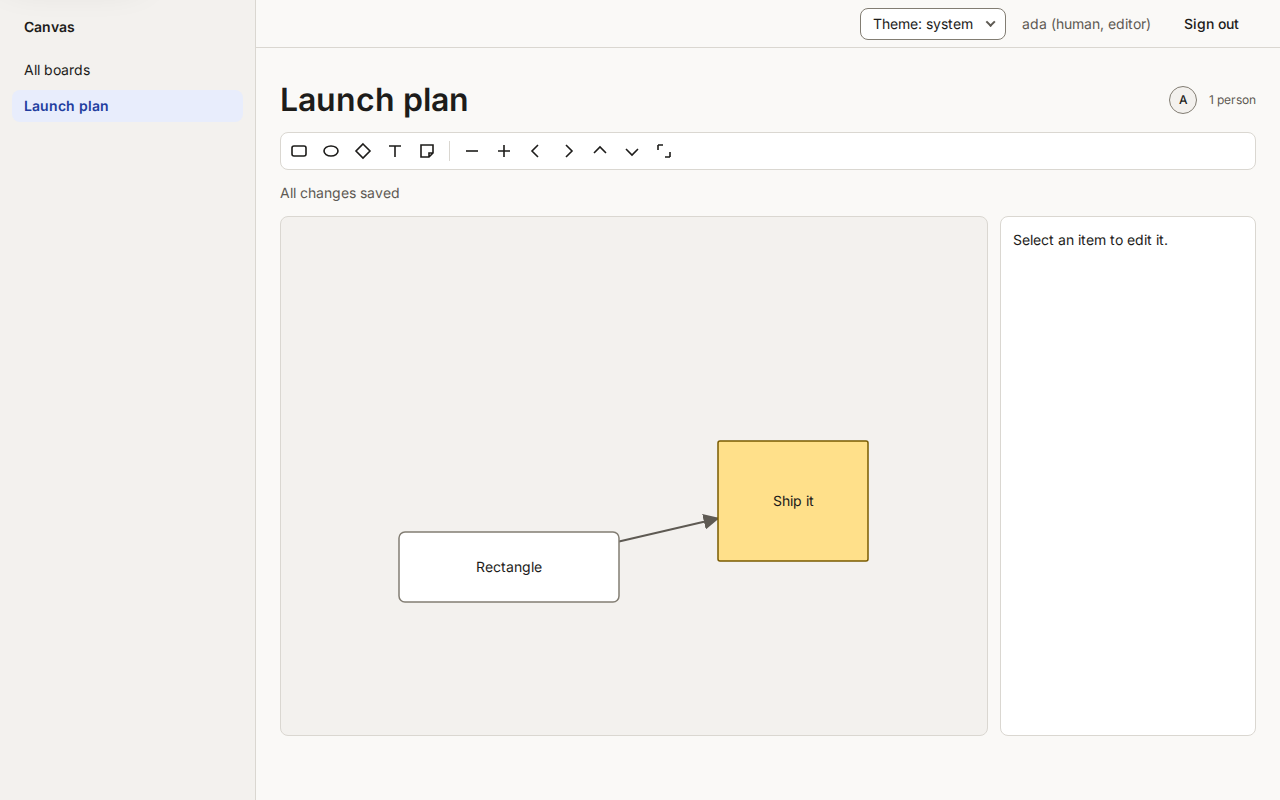
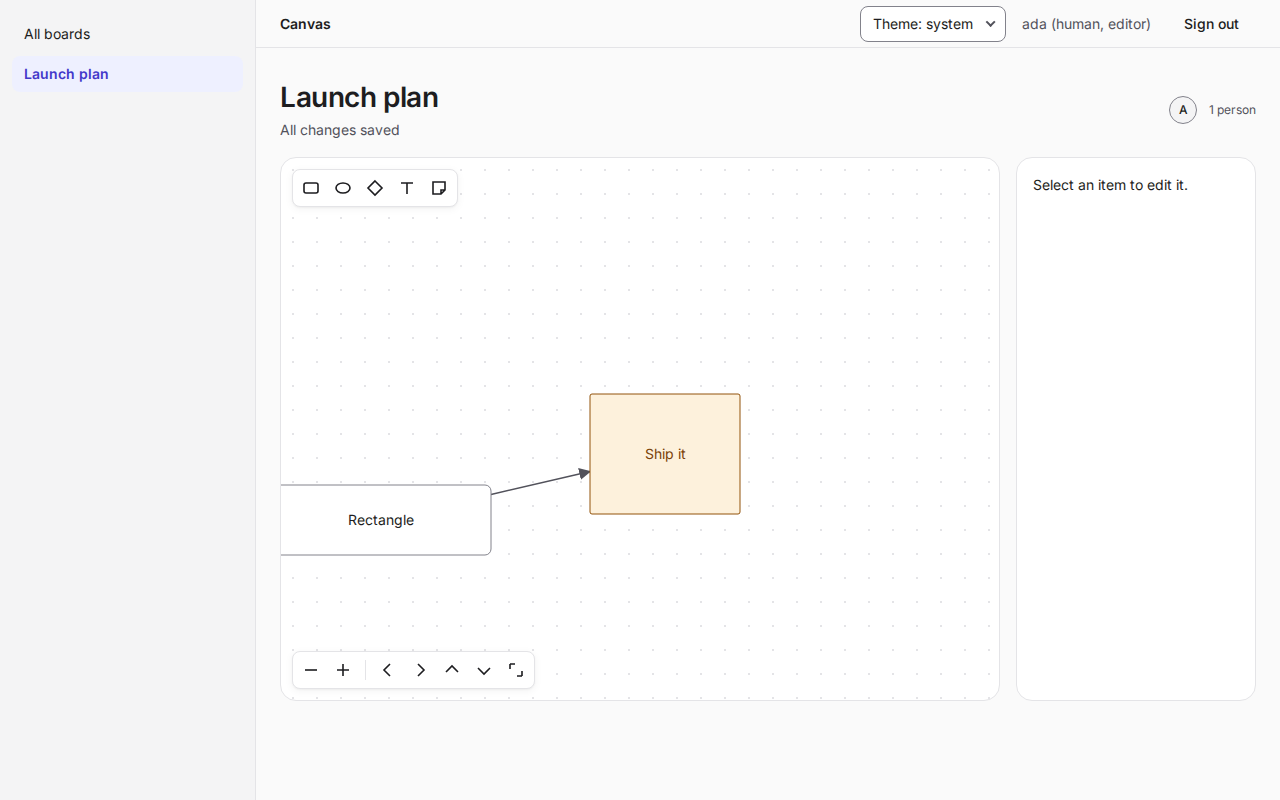
[CANVAS-100] Give the board a calm look (#101)
* [CANVAS-100] Give the board a calm look

Use agentic-design 0.5. The shape palette and the zoom controls float on
the canvas, before it in tab order. The canvas has a dot grid and softer
lines. The empty state is centered.

* [CANVAS-100] Fix a stale test comment

diff --git a/ui/ui.css b/ui/ui.css
@@ -5,32 +5,40 @@
   .note { color: var(--agd-color-text-muted); }
   .sr-only { position: absolute; width: 1px; height: 1px; overflow: hidden; clip: rect(0 0 0 0); white-space: nowrap; }
 
-  .board { display: grid; gap: var(--agd-space-3); }
-  .stage { position: relative; display: grid; grid-template-columns: minmax(0, 1fr) 16rem; gap: var(--agd-space-3); height: 65vh; min-height: 22rem; }
+  .board { display: grid; gap: var(--agd-space-4); }
+  .heading { display: grid; gap: var(--agd-space-1); }
+  .heading h1, .heading .note { margin: 0; }
+  .heading .note { font-size: var(--agd-font-size-sm); min-height: 1.25em; }
+  .stage { display: grid; grid-template-columns: minmax(0, 1fr) 15rem; gap: var(--agd-space-4); height: 68vh; min-height: 24rem; }
+  /* The palette and the zoom controls float on the canvas, so the page keeps one calm surface. They come before the canvas, so Tab reaches them first. */
+  .surface { position: relative; min-height: 18rem; }
+  .palette, .zoom { position: absolute; z-index: 1; left: var(--agd-space-3); max-width: calc(100% - 2 * var(--agd-space-3)); }
+  .palette { top: var(--agd-space-3); }
+  .zoom { bottom: var(--agd-space-3); }
+  .palette .agd-toolbar, .zoom .agd-toolbar { flex-wrap: wrap; box-shadow: var(--agd-shadow-raised); }
+  .canvas { height: 100%; box-sizing: border-box; background-color: var(--agd-color-surface); background-image: radial-gradient(var(--agd-color-border) 1px, transparent 1px); background-size: 24px 24px; border: 1px solid var(--agd-color-border); border-radius: var(--agd-radius-lg); overflow: hidden; touch-action: none; min-height: 18rem; }
   @media (max-width: 48rem) { .stage { grid-template-columns: 1fr; height: auto; } .canvas { height: 55vh; } }
-  .canvas { background: var(--agd-color-surface-sunken); border: 1px solid var(--agd-color-border); border-radius: var(--agd-radius-md); overflow: hidden; touch-action: none; min-height: 18rem; }
   .canvas:focus-visible { outline: 3px solid var(--agd-color-focus); outline-offset: 2px; }
   .canvas svg { display: block; cursor: grab; font-family: var(--agd-font-family-sans); font-size: 14px; }
   .item { outline: none; cursor: pointer; }
-  .shape { fill: var(--agd-color-surface-raised); stroke: var(--agd-color-border-strong); stroke-width: 1.5; }
+  .shape { fill: var(--agd-color-surface-raised); stroke: var(--agd-color-border-strong); stroke-width: 1; }
   .shape.text { fill: transparent; stroke: none; }
   .shape.frame, .shape.image { fill: none; stroke-dasharray: 6 4; pointer-events: visiblePainted; }
   .shape.sticky { fill: var(--agd-color-warning-subtle); stroke: var(--agd-color-warning); }
   .label { fill: var(--agd-color-text); pointer-events: none; }
   .sticky-label { fill: var(--agd-color-warning-text); }
-  .edge { stroke: var(--agd-color-text-muted); stroke-width: 2; fill: none; pointer-events: none; }
+  .edge { stroke: var(--agd-color-text-muted); stroke-width: 1.5; fill: none; pointer-events: none; }
   .hit { stroke: transparent; stroke-width: 14; }
   .arrowhead { fill: var(--agd-color-text-muted); }
-  .edge-text { fill: var(--agd-color-text); paint-order: stroke; stroke: var(--agd-color-surface-sunken); stroke-width: 4px; pointer-events: none; }
+  .edge-text { fill: var(--agd-color-text); paint-order: stroke; stroke: var(--agd-color-surface); stroke-width: 4px; pointer-events: none; }
   .ring, .ring-line { fill: none; stroke: none; stroke-width: 3; pointer-events: none; }
   .item.selected .ring, .item.selected .ring-line, .item:focus-visible .ring, .item:focus-visible .ring-line { stroke: var(--agd-color-focus); }
   .item:focus-visible .ring, .item:focus-visible .ring-line { stroke-width: 4; }
   .handle { fill: var(--agd-color-focus); stroke: var(--agd-color-bg); stroke-width: 2; cursor: nwse-resize; }
   .agent-badge rect { fill: var(--agd-color-agent-subtle); stroke: var(--agd-color-agent); }
   .agent-badge text { fill: var(--agd-color-agent-text); font-size: 11px; font-weight: 600; pointer-events: none; }
-  .empty-overlay { position: absolute; inset: 0 16rem 0 0; display: grid; place-items: center; pointer-events: none; }
-  @media (max-width: 48rem) { .empty-overlay { inset: 0; bottom: auto; height: 55vh; } }
-  .inspector { border: 1px solid var(--agd-color-border); border-radius: var(--agd-radius-md); padding: var(--agd-space-3); background: var(--agd-color-surface); display: grid; gap: var(--agd-space-3); align-content: start; overflow: auto; }
+  .empty-overlay { position: absolute; inset: 0; display: grid; place-items: center; pointer-events: none; }
+  .inspector { border: 1px solid var(--agd-color-border); border-radius: var(--agd-radius-lg); padding: var(--agd-space-4); background: var(--agd-color-surface); display: grid; gap: var(--agd-space-3); align-content: start; overflow: auto; }
   .inspector h2 { margin: 0; font-size: var(--agd-font-size-lg); }
   .inspector form { display: grid; gap: var(--agd-space-3); }
   .inspector .by { margin: 0; color: var(--agd-color-text-muted); font-size: var(--agd-font-size-sm); }

diff --git a/ui/BoardView.tsx b/ui/BoardView.tsx
@@ -235,31 +235,41 @@ export function BoardView({ id, client: remote, host, room: roomOptions, me, bac
   return (
     <section className="board" aria-labelledby="board-h">
       <div className="row">
-        <h1 id="board-h">{d.title || d.id}</h1>
+        <div className="heading">
+          <h1 id="board-h">{d.title || d.id}</h1>
+          <p className="note" role="status">{editable ? status : ""}</p>
+        </div>
         <PresenceStack entries={[{ id: "me", name: me.actor, kind: me.kind === "human" ? "person" : "agent" }, ...peers]} label={live ? "In this board" : "In this board (not live)"} />
       </div>
-      <Toolbar label="Board tools">
-        {TOOLS.map((t) => (
-          <ToolbarButton key={t.type} label={t.text} icon={t.icon} disabled={!editable} onClick={() => add(t.type)} />
-        ))}
-        <ToolbarSeparator />
-        <ToolbarButton label="Zoom out" icon={icon(<path d="M4 10h12" />)} onClick={() => zoom(1 / 1.25)} />
-        <ToolbarButton label="Zoom in" icon={icon(<path d="M4 10h12M10 4v12" />)} onClick={() => zoom(1.25)} />
-        <ToolbarButton label="Pan left" icon={icon(<path d="M12 4l-6 6 6 6" />)} onClick={() => setView((v) => ({ ...v, x: v.x + PAN_STEP }))} />
-        <ToolbarButton label="Pan right" icon={icon(<path d="M8 4l6 6-6 6" />)} onClick={() => setView((v) => ({ ...v, x: v.x - PAN_STEP }))} />
-        <ToolbarButton label="Pan up" icon={icon(<path d="M4 12l6-6 6 6" />)} onClick={() => setView((v) => ({ ...v, y: v.y + PAN_STEP }))} />
-        <ToolbarButton label="Pan down" icon={icon(<path d="M4 8l6 6 6-6" />)} onClick={() => setView((v) => ({ ...v, y: v.y - PAN_STEP }))} />
-        <ToolbarButton label="Reset view" icon={icon(<path d="M4 4h5M4 4v5M16 16h-5M16 16v-5" />)} onClick={() => setView(HOME)} />
-      </Toolbar>
-      <p className="note" role="status">{editable ? status : ""}</p>
       {!editable && <p className="note">{host ? "This board is read only." : "This token can read the board but not change it."}</p>}
-      <div className="stage" ref={canvasBox}>
-        <Canvas data={d} selected={selected} editable={editable} view={view} onView={setView} onSelect={setSelected} onMove={move} onResize={resize} onDelete={remove} />
-        {empty && (
-          <div className="empty-overlay">
-            <EmptyState title="This board is empty" description={editable ? "Add a shape or a note with the tools above." : "Nothing has been drawn yet."} />
+      <div className="stage">
+        <div className="surface" ref={canvasBox}>
+          <div className="palette">
+            <Toolbar label="Shape palette">
+              {TOOLS.map((t) => (
+                <ToolbarButton key={t.type} label={t.text} icon={t.icon} disabled={!editable} onClick={() => add(t.type)} />
+              ))}
+            </Toolbar>
           </div>
-        )}
+          <div className="zoom">
+            <Toolbar label="Zoom and pan">
+              <ToolbarButton label="Zoom out" icon={icon(<path d="M4 10h12" />)} onClick={() => zoom(1 / 1.25)} />
+              <ToolbarButton label="Zoom in" icon={icon(<path d="M4 10h12M10 4v12" />)} onClick={() => zoom(1.25)} />
+              <ToolbarSeparator />
+              <ToolbarButton label="Pan left" icon={icon(<path d="M12 4l-6 6 6 6" />)} onClick={() => setView((v) => ({ ...v, x: v.x + PAN_STEP }))} />
+              <ToolbarButton label="Pan right" icon={icon(<path d="M8 4l6 6-6 6" />)} onClick={() => setView((v) => ({ ...v, x: v.x - PAN_STEP }))} />
+              <ToolbarButton label="Pan up" icon={icon(<path d="M4 12l6-6 6 6" />)} onClick={() => setView((v) => ({ ...v, y: v.y + PAN_STEP }))} />
+              <ToolbarButton label="Pan down" icon={icon(<path d="M4 8l6 6 6-6" />)} onClick={() => setView((v) => ({ ...v, y: v.y - PAN_STEP }))} />
+              <ToolbarButton label="Reset view" icon={icon(<path d="M4 4h5M4 4v5M16 16h-5M16 16v-5" />)} onClick={() => setView(HOME)} />
+            </Toolbar>
+          </div>
+          <Canvas data={d} selected={selected} editable={editable} view={view} onView={setView} onSelect={setSelected} onMove={move} onResize={resize} onDelete={remove} />
+          {empty && (
+            <div className="empty-overlay">
+              <EmptyState title="This board is empty" description={editable ? "Pick a shape from the palette to start." : "Nothing has been drawn yet."} />
+            </div>
+          )}
+        </div>
         <Inspector key={item?.id ?? "none"} item={item} nodes={d.nodes} editable={editable} onText={(text) => item && write(() => client.update(id, item.id, { text }), "Could not save the text")} onPlace={place} onDelete={remove} onConnect={(to) => item && write(() => client.addConnector(id, { from: { id: item.id }, to: { id: to } }), "Could not connect")} />
       </div>
     </section>

diff --git a/e2e/ui.spec.ts b/e2e/ui.spec.ts
@@ -123,7 +123,13 @@ test("the keyboard moves, resizes, deletes, and clears", async ({ page }) => {
   await page.goto("/#/b/keys");
   await expect(item(page, "Rectangle: First")).toBeVisible();
 
-  await page.keyboard.press("Tab"); // the canvas
+  // Both toolbars come before the canvas, so Tab reaches them before any item.
+  const order = await page.evaluate(() => {
+    const canvas = document.querySelector(".canvas")!;
+    return ["Shape palette", "Zoom and pan"].map((name) => !!(document.querySelector(`[role=toolbar][aria-label="${name}"]`)!.compareDocumentPosition(canvas) & Node.DOCUMENT_POSITION_FOLLOWING));
+  });
+  expect(order).toEqual([true, true]);
+  await page.keyboard.press("Tab"); // the first toolbar
   await page.locator(".canvas").focus();
   await page.keyboard.press("Tab");
   await expect(item(page, "Rectangle: First")).toBeFocused();

diff --git a/ui/ui-css.test.tsx b/ui/ui-css.test.tsx
@@ -6,3 +6,11 @@ test("ui.css holds no hex color", () => {
   const css = readFileSync(new URL("./ui.css", import.meta.url), "utf8");
   expect(css.match(/#[0-9a-fA-F]{3,8}\b/g) ?? []).toEqual([]);
 });
+
+// The old prefix matches ad blocker rules. The UI sources must use only agd- classes and tokens.
+test("the UI sources hold no ad- class or token", () => {
+  for (const file of ["ui.css", "app.css", "BoardView.tsx", "Canvas.tsx", "App.tsx"]) {
+    const text = readFileSync(new URL(`./${file}`, import.meta.url), "utf8");
+    expect(text.match(/(?<![\w-])(?:--)?ad-[a-z]/g) ?? [], file).toEqual([]);
+  }
+});

diff --git a/README.md b/README.md
@@ -7,7 +7,7 @@
 
 A shared whiteboard for diagrams, drawn by people and agents.
 
-> Status: 0.11.0. The board model, the agent operations, the exports, the CLI, the
+> Status: 0.12.0. The board model, the agent operations, the exports, the CLI, the
 > MCP server, a small Worker API, and live co-editing work. The CLI, the MCP server,
 > and the SDK can join a live room. A remote client calls the Worker API. A small web UI, served by the Worker, is new in 0.4.0.
 > The package exports `agentic-canvas/ui`, a board view you can mount in your own app, new in 0.5.0.
@@ -258,7 +258,7 @@ What it does:
 
 - Lists boards, makes a board, and opens one. Empty, loading, and error states have a retry.
 - Draws shapes, connectors, text, and sticky notes. Select, move, resize, connect, and delete an
-  item. Pan by dragging the background, zoom with the wheel or the toolbar.
+  item. Pan by dragging the background, zoom with the wheel or the zoom controls on the canvas.
 - Marks an item an agent wrote with an "Agent" tag and in its accessible name. The side panel shows
   who made the item and who last edited it.
 - Shows who is in the board, from the live room (`agentic-realtime`). Edits go over the HTTP API.

diff --git a/CHANGELOG.md b/CHANGELOG.md
@@ -1,5 +1,12 @@
 # Changelog
 
+## 0.12.0
+
+**Changed**
+
+- A calmer board look, with `agentic-design` ^0.5.0 (was ^0.4.0). The shape palette and the zoom controls float on the canvas as two small toolbars. The canvas has a soft dot grid and a large radius. Shapes and connectors have thinner lines. The save status sits under the title. The empty state is centered on the canvas. The look follows Tiny Little Office (https://tinylittleoffice.com, MIT). No code is copied.
+- The toolbar named "Board tools" is now two toolbars: "Shape palette" and "Zoom and pan".
+
 ## 0.11.0
 
 **Added**
